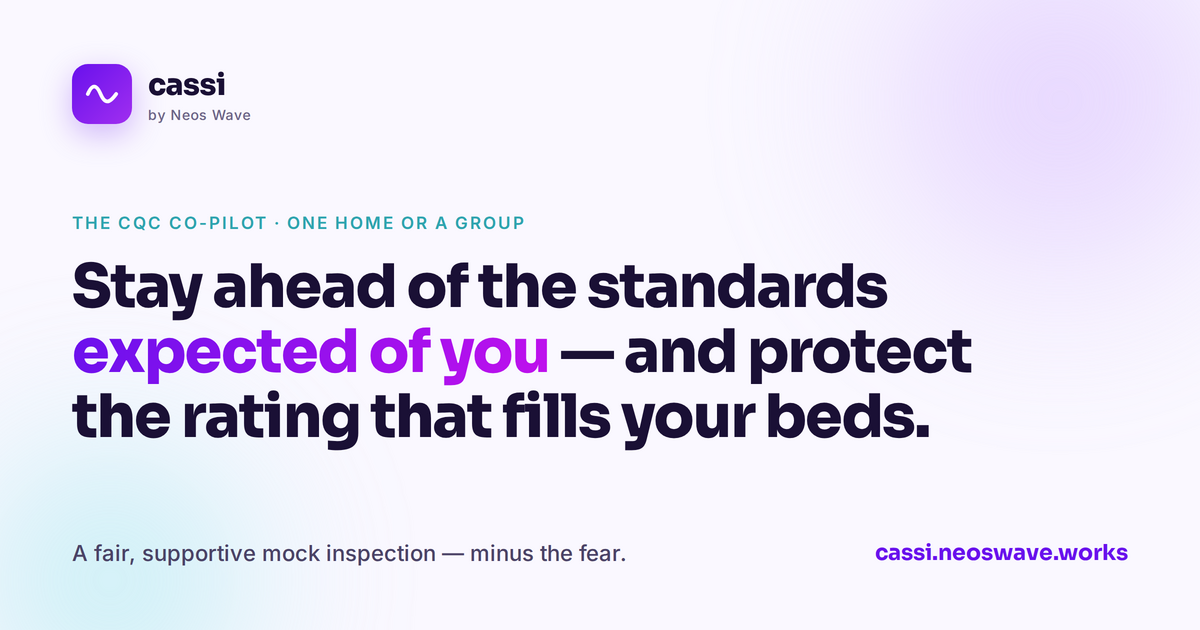
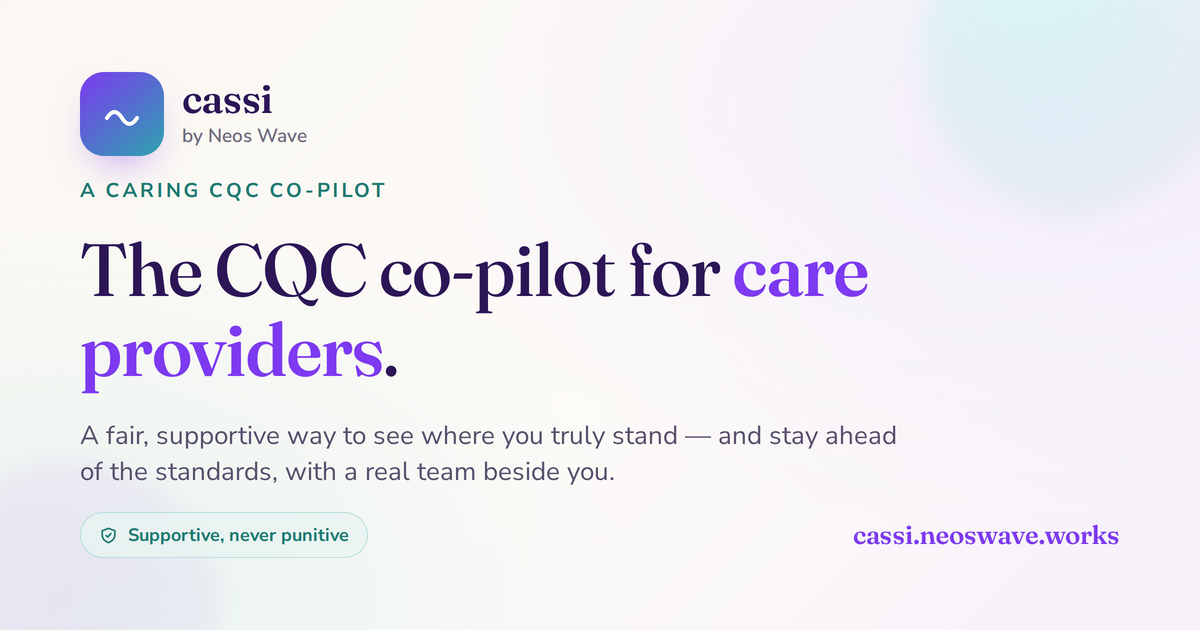
Regenerate OG image with caring/neutral tone (Fraunces serif, soft warm palette, 'CQC co-pilot for care providers'); update social descriptions and cache-bust image URL

Changed region(s): [[0.0617, 0.0905, 0.8325, 0.7841], [0.0617, 0.8444, 0.5242, 0.9048], [0.7092, 0.8444, 0.9558, 0.9048]]

diff --git a/index.html b/index.html
@@ -12,13 +12,13 @@
 <meta property="og:type" content="website">
 <meta property="og:site_name" content="Cassi by Neos Wave">
 <meta property="og:title" content="Cassi — the CQC co-pilot for care providers">
-<meta property="og:description" content="Stay ahead of the standards expected of you — and protect the rating that fills your beds. Cassi assesses your evidence against CQC, whether you run one home or a group.">
+<meta property="og:description" content="A fair, supportive way to see where you truly stand against CQC — and stay ahead of the standards, with a real team beside you. For one home or a group.">
 <meta property="og:url" content="https://cassi.neoswave.works/">
-<meta property="og:image" content="https://cassi.neoswave.works/og-image.png">
+<meta property="og:image" content="https://cassi.neoswave.works/og-image.png?v=2">
 <meta name="twitter:card" content="summary_large_image">
 <meta name="twitter:title" content="Cassi — the CQC co-pilot for care providers">
-<meta name="twitter:description" content="Stay ahead of the standards expected of you — and protect the rating that fills your beds. For one home or a group.">
-<meta name="twitter:image" content="https://cassi.neoswave.works/og-image.png">
+<meta name="twitter:description" content="A fair, supportive way to see where you truly stand against CQC — and stay ahead of the standards, with a real team beside you. For one home or a group.">
+<meta name="twitter:image" content="https://cassi.neoswave.works/og-image.png?v=2">
 <link rel="icon" type="image/svg+xml" href="/favicon.svg">
 <link rel="apple-touch-icon" href="/favicon.svg">
 <link rel="preconnect" href="https://fonts.googleapis.com">